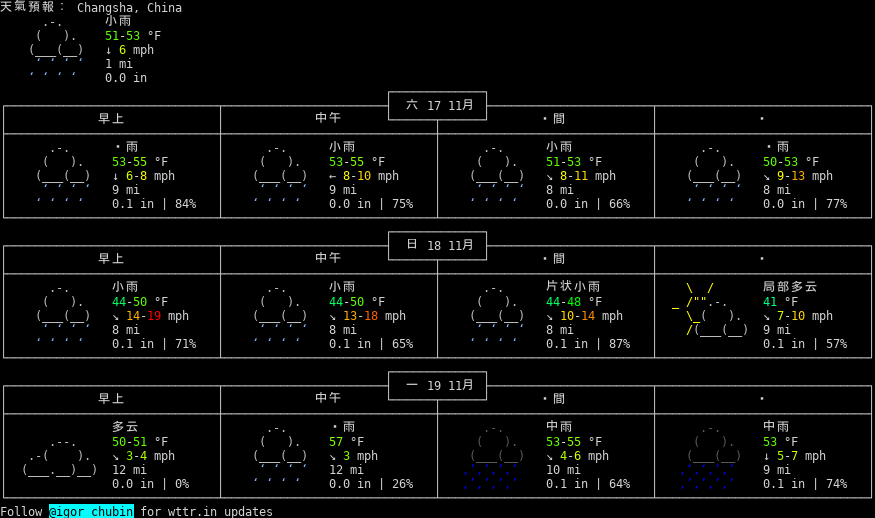
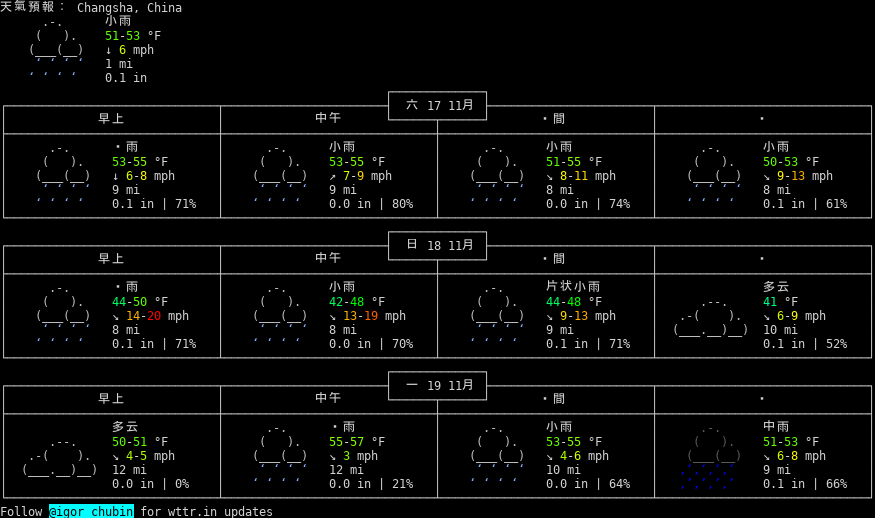
update Today's log:)

diff --git a/README.md b/README.md
@@ -1298,3 +1298,4 @@ My Shell_script learning note
 * 2018年11月17日 星期Sat AM 9:00 CST   天气: 71°F (Los Angeles, United States of America)
 * 2018年11月17日 星期Sat AM 9:20 CST   天气: 71°F (Los Angeles, United States of America)
 * 2018年11月17日 星期Sat AM 9:40 CST   天气: 71°F (Los Angeles, United States of America)
+* 2018年11月17日 星期Sat AM10:00 CST   天气: 66°F (Los Angeles, United States of America)

diff --git a/weather.md b/weather.md
@@ -5021,3 +5021,7 @@
 
 ![](PNG/20181117.png)
 
+2018年 11月 17日
+
+![](PNG/20181117.png)
+
